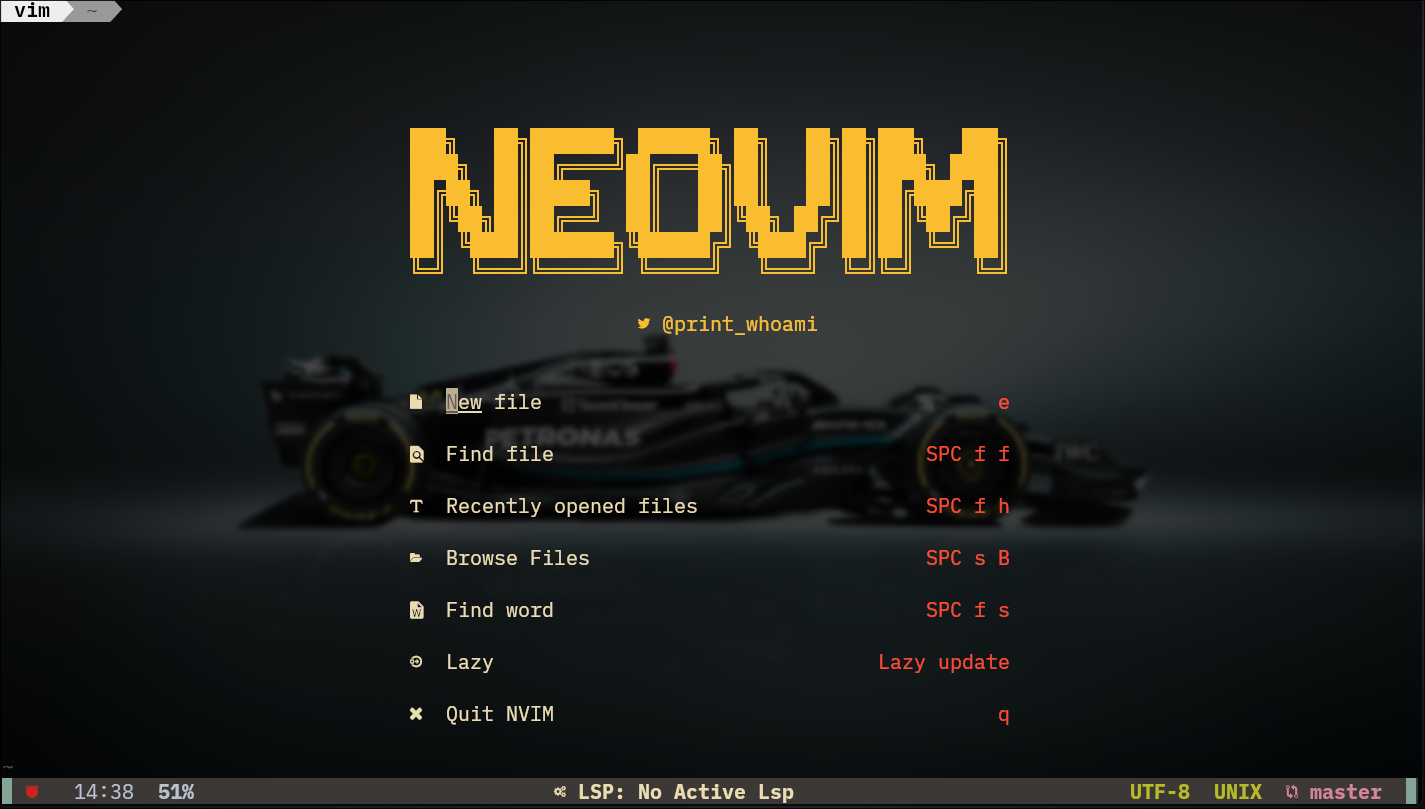
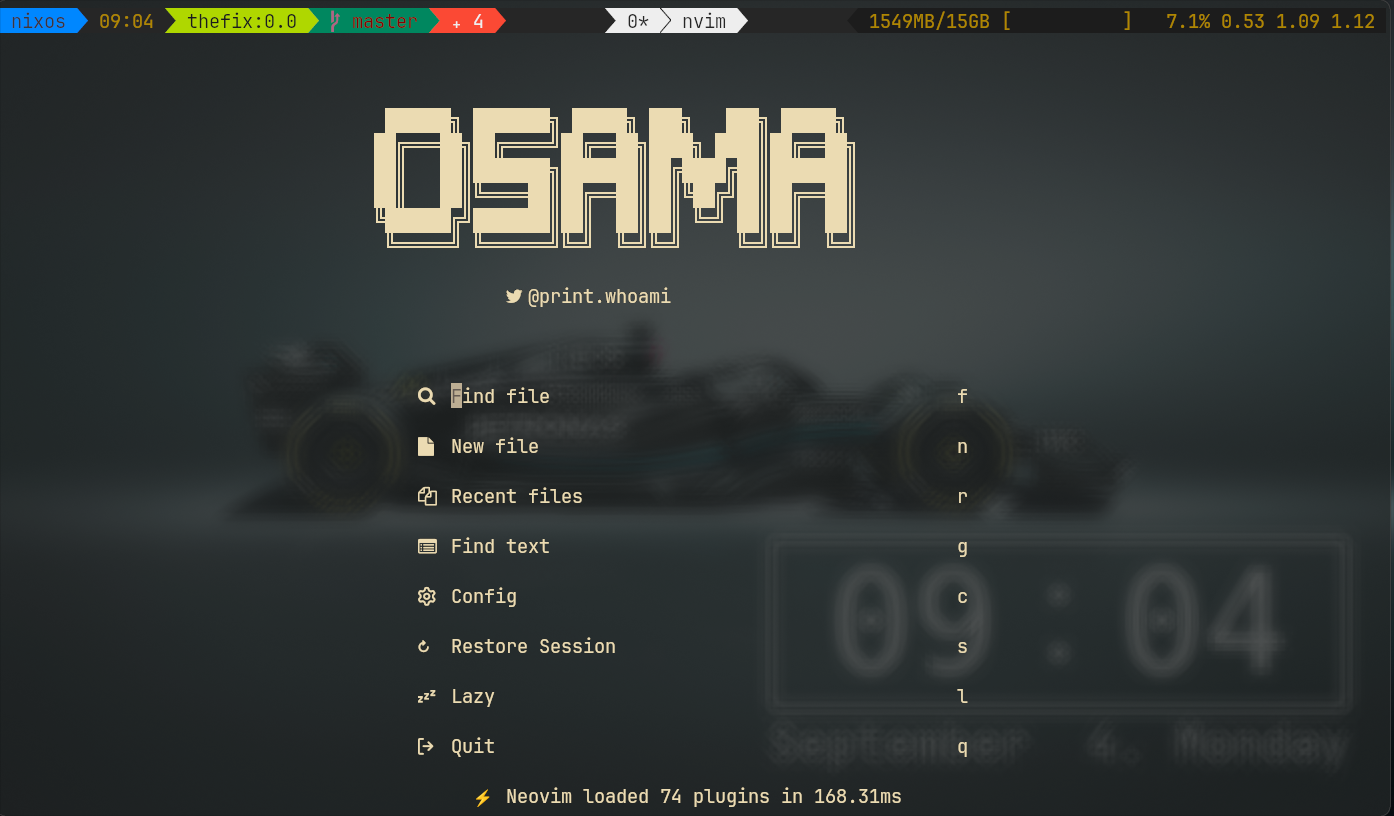
feature: new plugins to improve workflow

diff --git a/README.md b/README.md
@@ -1,5 +1,5 @@
 <div align="center">
-    <h1>Neovim Config
+    <h1>ŌsamaVim
     <br>
     <a href="https://www.lua.org/">
     <img
@@ -20,7 +20,6 @@
     </a>
     <img alt="GitHub last commit" src="https://img.shields.io/github/last-commit/mbhon1/neovim-config?color=%23C63989&style=for-the-badge">
     <img alt="GitHub repo size" src="https://img.shields.io/github/repo-size/mbhon1/neovim-config?color=%2327d863&style=for-the-badge">
-</p>
 </p>
 
 ## ✍ Intro
@@ -61,123 +60,108 @@ Dashboard
 
 ![Alpha](./Screenshots/alpha.png)
 
-Transparency-off
-
-![Transparent](./Screenshots/transparent-off.png)
-
-Gruvbox theme
-
-![Code](./Screenshots/code.png)
-
-Screensaver
-
-![Zones](./Screenshots/zone.png)
-
-Lazy package manager
-
-![Lazy](./Screenshots/lazy.png)
-
-Lazygit
-
-![Lazygit](./Screenshots/lazygit.png)
-
 ## 📂 File Structure
 
 ```
- .
-├──  ftplugin
-│   └──  java.lua
-├──  init.lua
-├──  lua
-│   ├──  core
-│   │   ├──  autocommands.lua
-│   │   ├──  init.lua
-│   │   ├──  keymaps.lua
-│   │   ├──  options.lua
-│   │   └──  utils.lua
-│   ├──  plugin-loader.lua
-│   └──  plugins
-│       ├──  alpha
-│       │   ├──  dashboard.lua.bak
-│       │   ├──  init.lua.bak
-│       │   └──  startify.lua.bak
-│       ├──  alpha.lua
-│       ├──  autopairs.lua
-│       ├──  buffer-remove.lua
-│       ├──  bufferline.lua
-│       ├──  cmp.lua
-│       ├──  colorizer.lua
-│       ├──  comment.lua
-│       ├──  dap
-│       │   ├──  cpptools.lua
-│       │   ├──  debugpy.lua
-│       │   ├──  delve.lua
-│       │   ├──  init.lua
-│       │   ├──  js-debug.lua
-│       │   └──  node-debug2.lua
-│       ├──  fidget.lua
-│       ├──  file-browser.lua
-│       ├──  flash.lua
-│       ├──  gitsigns.lua
-│       ├──  jaq.lua.bak
-│       ├──  lsp
-│       │   ├──  handlers.lua
-│       │   ├──  init.lua
-│       │   └──  settings
-│       │       ├──  clangd.lua
-│       │       ├──  jdtls.lua
-│       │       ├──  jsonls.lua
-│       │       ├──  lua_ls.lua
-│       │       ├──  pyright.lua
-│       │       └──  yamlls.lua
-│       ├──  lspsaga.lua
-│       ├──  lualine
-│       │   ├──  components.lua
-│       │   ├──  init.lua
-│       │   ├──  modes.lua
-│       │   └──  theme.lua
-│       ├──  navic.lua
-│       ├──  neo-tree.lua.bak
-│       ├──  neorg.lua.bak
-│       ├──  noice.lua
-│       ├──  null-ls.lua
-│       ├──  nvim-tree.lua
-│       ├──  persistence.lua
-│       ├──  spectre.lua
-│       ├──  tabset.lua
-│       ├──  telescope.lua
-│       ├──  theme
-│       │   ├──  catppuccin.lua
-│       │   ├──  dracula.lua
-│       │   ├──  gruvbox.lua
-│       │   ├──  init.lua
-│       │   ├──  kanagawa.lua
-│       │   ├──  material.lua
-│       │   ├──  nightly.lua
-│       │   ├──  onedark.lua
-│       │   └──  tokyonight.lua
-│       ├──  todo-comments.lua
-│       ├──  toggleterm.lua
-│       ├──  treesitter.lua
-│       ├──  undotree.lua
-│       ├──  utils.lua
-│       └──  which-key.lua
-├──  README.md
-├──  Screenshots
-│   ├──  alpha.png
-│   ├──  code.png
-│   ├──  lazy.png
-│   ├──  lazygit.png
-│   ├──  onefetch.png
-│   ├──  transparent-off.png
-│   └──  zone.png
-├──  snippets
-│   ├──  snipmate
-│   │   └──  cpp.snippets
-│   └──  vscode
-│       ├──  cpp.json
-│       └──  package.json
-└──  stylua.toml
+.
+├── ftplugin
+│  └── java.lua
+├── lua
+│  ├── core
+│  │  ├── autocommands.lua
+│  │  ├── init.lua
+│  │  ├── keymaps.lua
+│  │  ├── options.lua
+│  │  └── utils.lua
+│  ├── plugins
+│  │  ├── alpha
+│  │  │  ├── dashboard.lua.bak
+│  │  │  ├── init.lua.bak
+│  │  │  └── startify.lua.bak
+│  │  ├── dap
+│  │  │  ├── cpptools.lua
+│  │  │  ├── debugpy.lua
+│  │  │  ├── delve.lua
+│  │  │  ├── init.lua
+│  │  │  ├── js-debug.lua
+│  │  │  └── node-debug2.lua
+│  │  ├── lsp
+│  │  │  ├── settings
+│  │  │  │  ├── clangd.lua
+│  │  │  │  ├── jdtls.lua
+│  │  │  │  ├── jsonls.lua
+│  │  │  │  ├── lua_ls.lua
+│  │  │  │  ├── pyright.lua
+│  │  │  │  └── yamlls.lua
+│  │  │  ├── handlers.lua
+│  │  │  └── init.lua
+│  │  ├── lualine
+│  │  │  ├── components.lua
+│  │  │  ├── init.lua
+│  │  │  ├── modes.lua
+│  │  │  └── theme.lua
+│  │  ├── theme
+│  │  │  ├── catppuccin.lua
+│  │  │  ├── dracula.lua
+│  │  │  ├── gruvbox.lua
+│  │  │  ├── init.lua
+│  │  │  ├── kanagawa.lua
+│  │  │  ├── material.lua
+│  │  │  ├── nightly.lua
+│  │  │  ├── onedark.lua
+│  │  │  └── tokyonight.lua
+│  │  ├── alpha.lua
+│  │  ├── autopairs.lua
+│  │  ├── buffer-remove.lua
+│  │  ├── bufferline.lua
+│  │  ├── cmp.lua
+│  │  ├── colorizer.lua
+│  │  ├── comment.lua
+│  │  ├── fidget.lua
+│  │  ├── file-browser.lua
+│  │  ├── flash.lua
+│  │  ├── gitsigns.lua
+│  │  ├── jaq.lua
+│  │  ├── lspsaga.lua
+│  │  ├── navic.lua
+│  │  ├── neo-tree.lua.bak
+│  │  ├── neorg.lua
+│  │  ├── neotest.lua
+│  │  ├── noice.lua
+│  │  ├── null-ls.lua
+│  │  ├── nvim-tree.lua
+│  │  ├── obsidian.lua
+│  │  ├── persistence.lua
+│  │  ├── regexplainer.lua
+│  │  ├── spectre.lua
+│  │  ├── tabset.lua
+│  │  ├── telescope.lua
+│  │  ├── todo-comments.lua
+│  │  ├── toggleterm.lua
+│  │  ├── treesitter.lua
+│  │  ├── undotree.lua
+│  │  ├── utils.lua
+│  │  └── which-key.lua
+│  └── plugin-loader.lua
+├── Screenshots
+│  ├── alpha.png
+│  ├── code.png
+│  ├── lazy.png
+│  ├── lazygit.png
+│  ├── onefetch.png
+│  ├── transparent-off.png
+│  └── zone.png
+├── snippets
+│  ├── snipmate
+│  │  └── cpp.snippets
+│  └── vscode
+│     ├── cpp.json
+│     └── package.json
+├── init.lua
+├── README.md
+└── stylua.toml
 ```
 
 ## Contributions
+
+Encounter bugs? Feel free to open issues before submitting a pull request.
